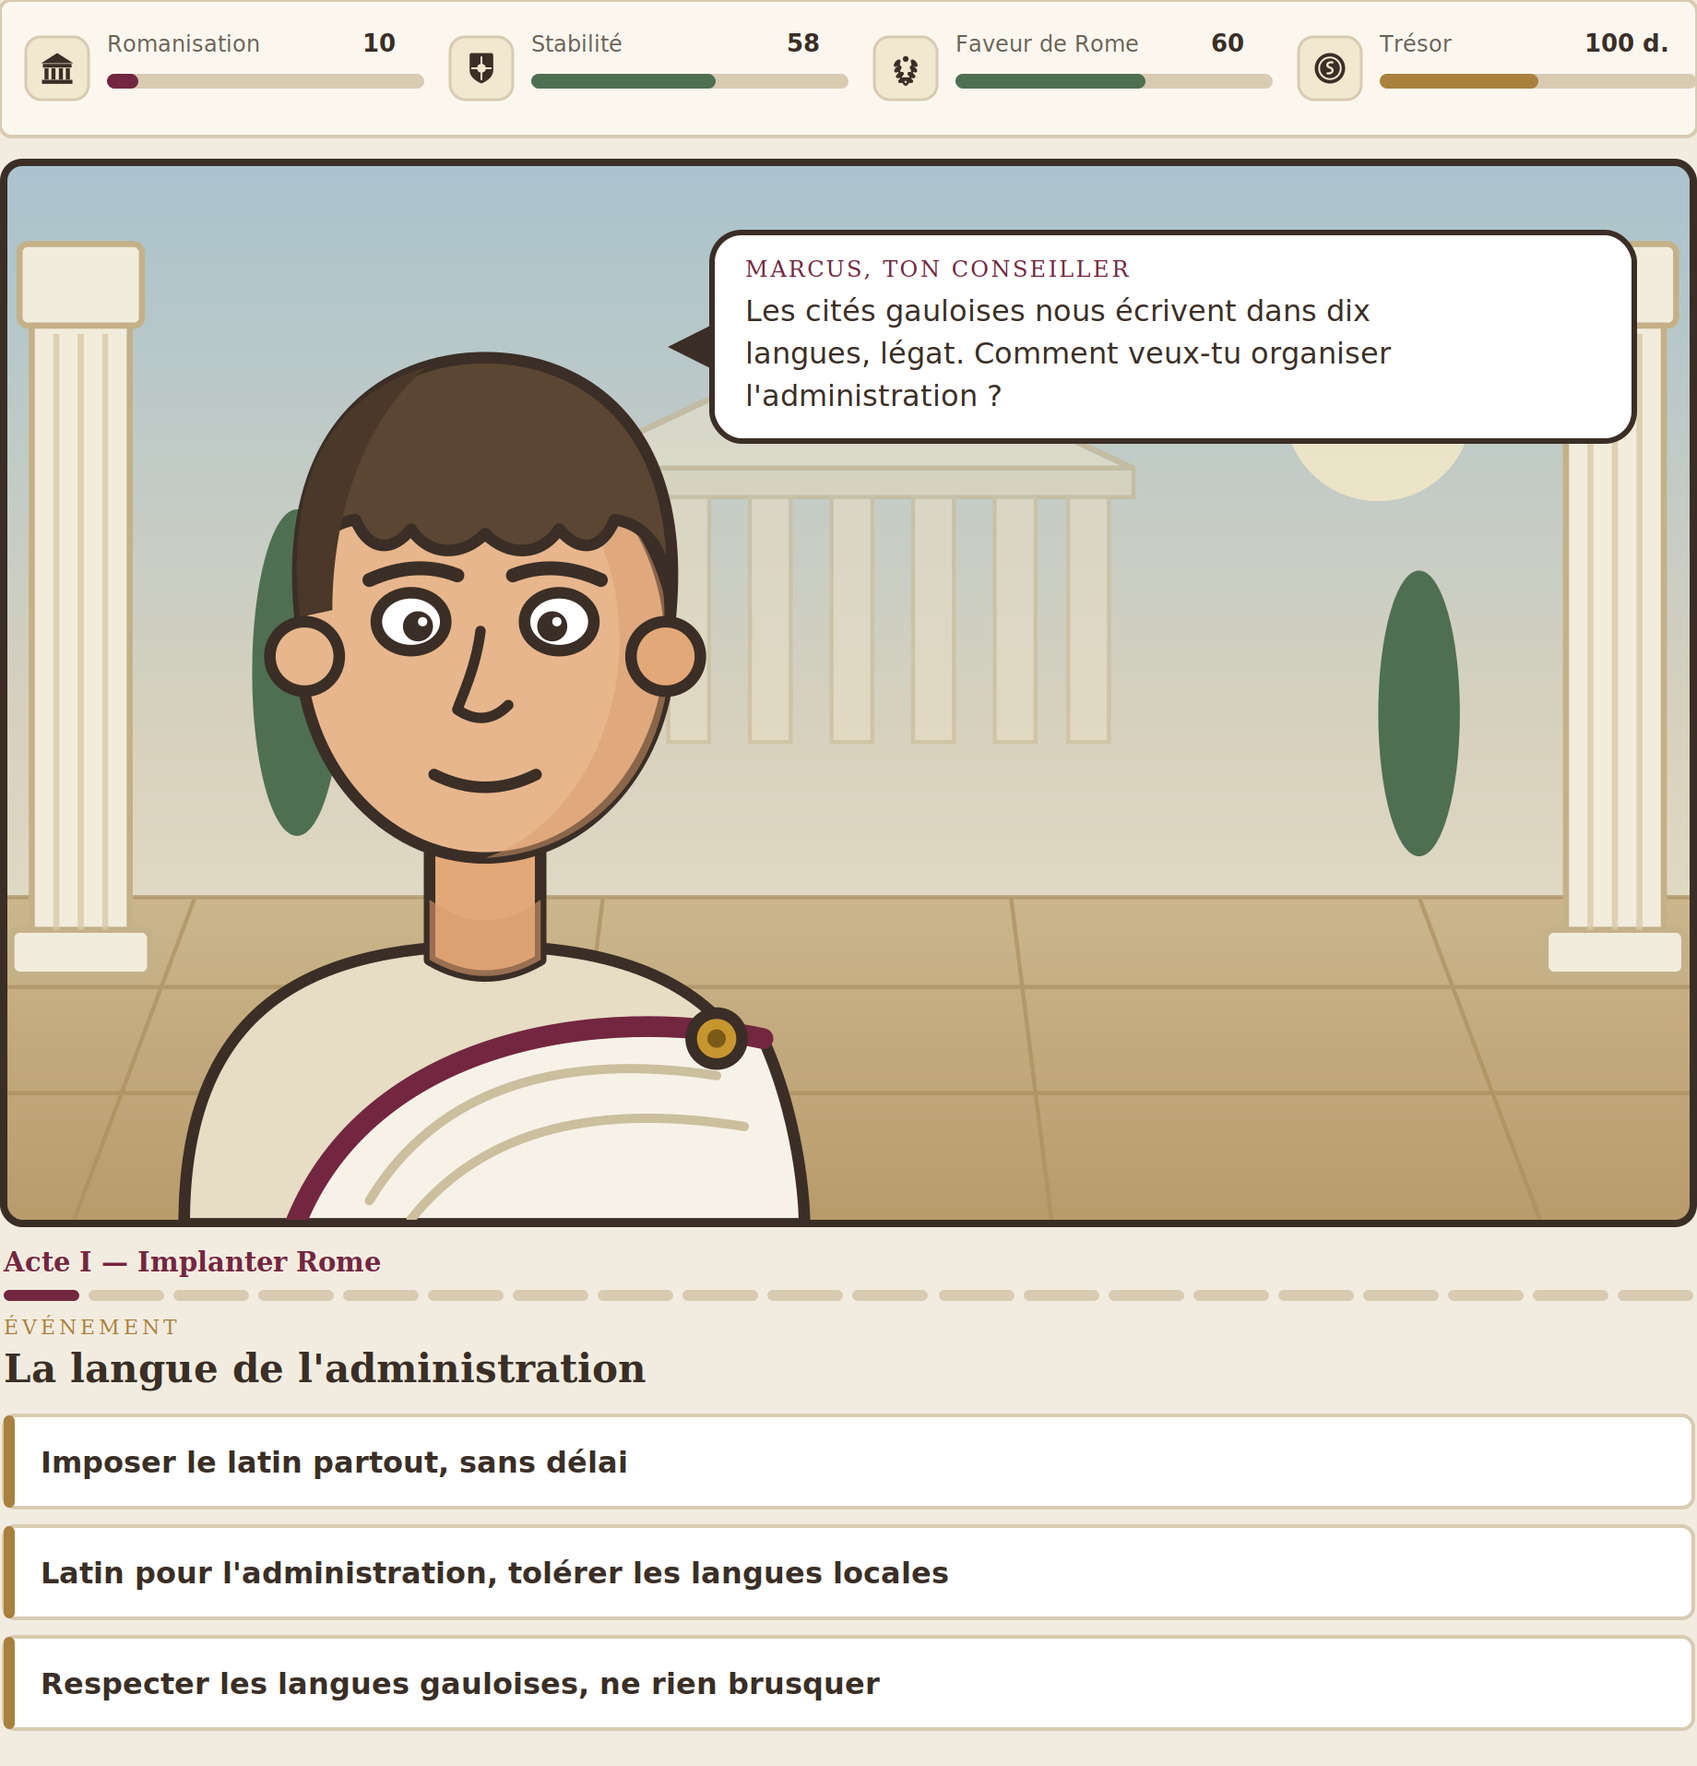
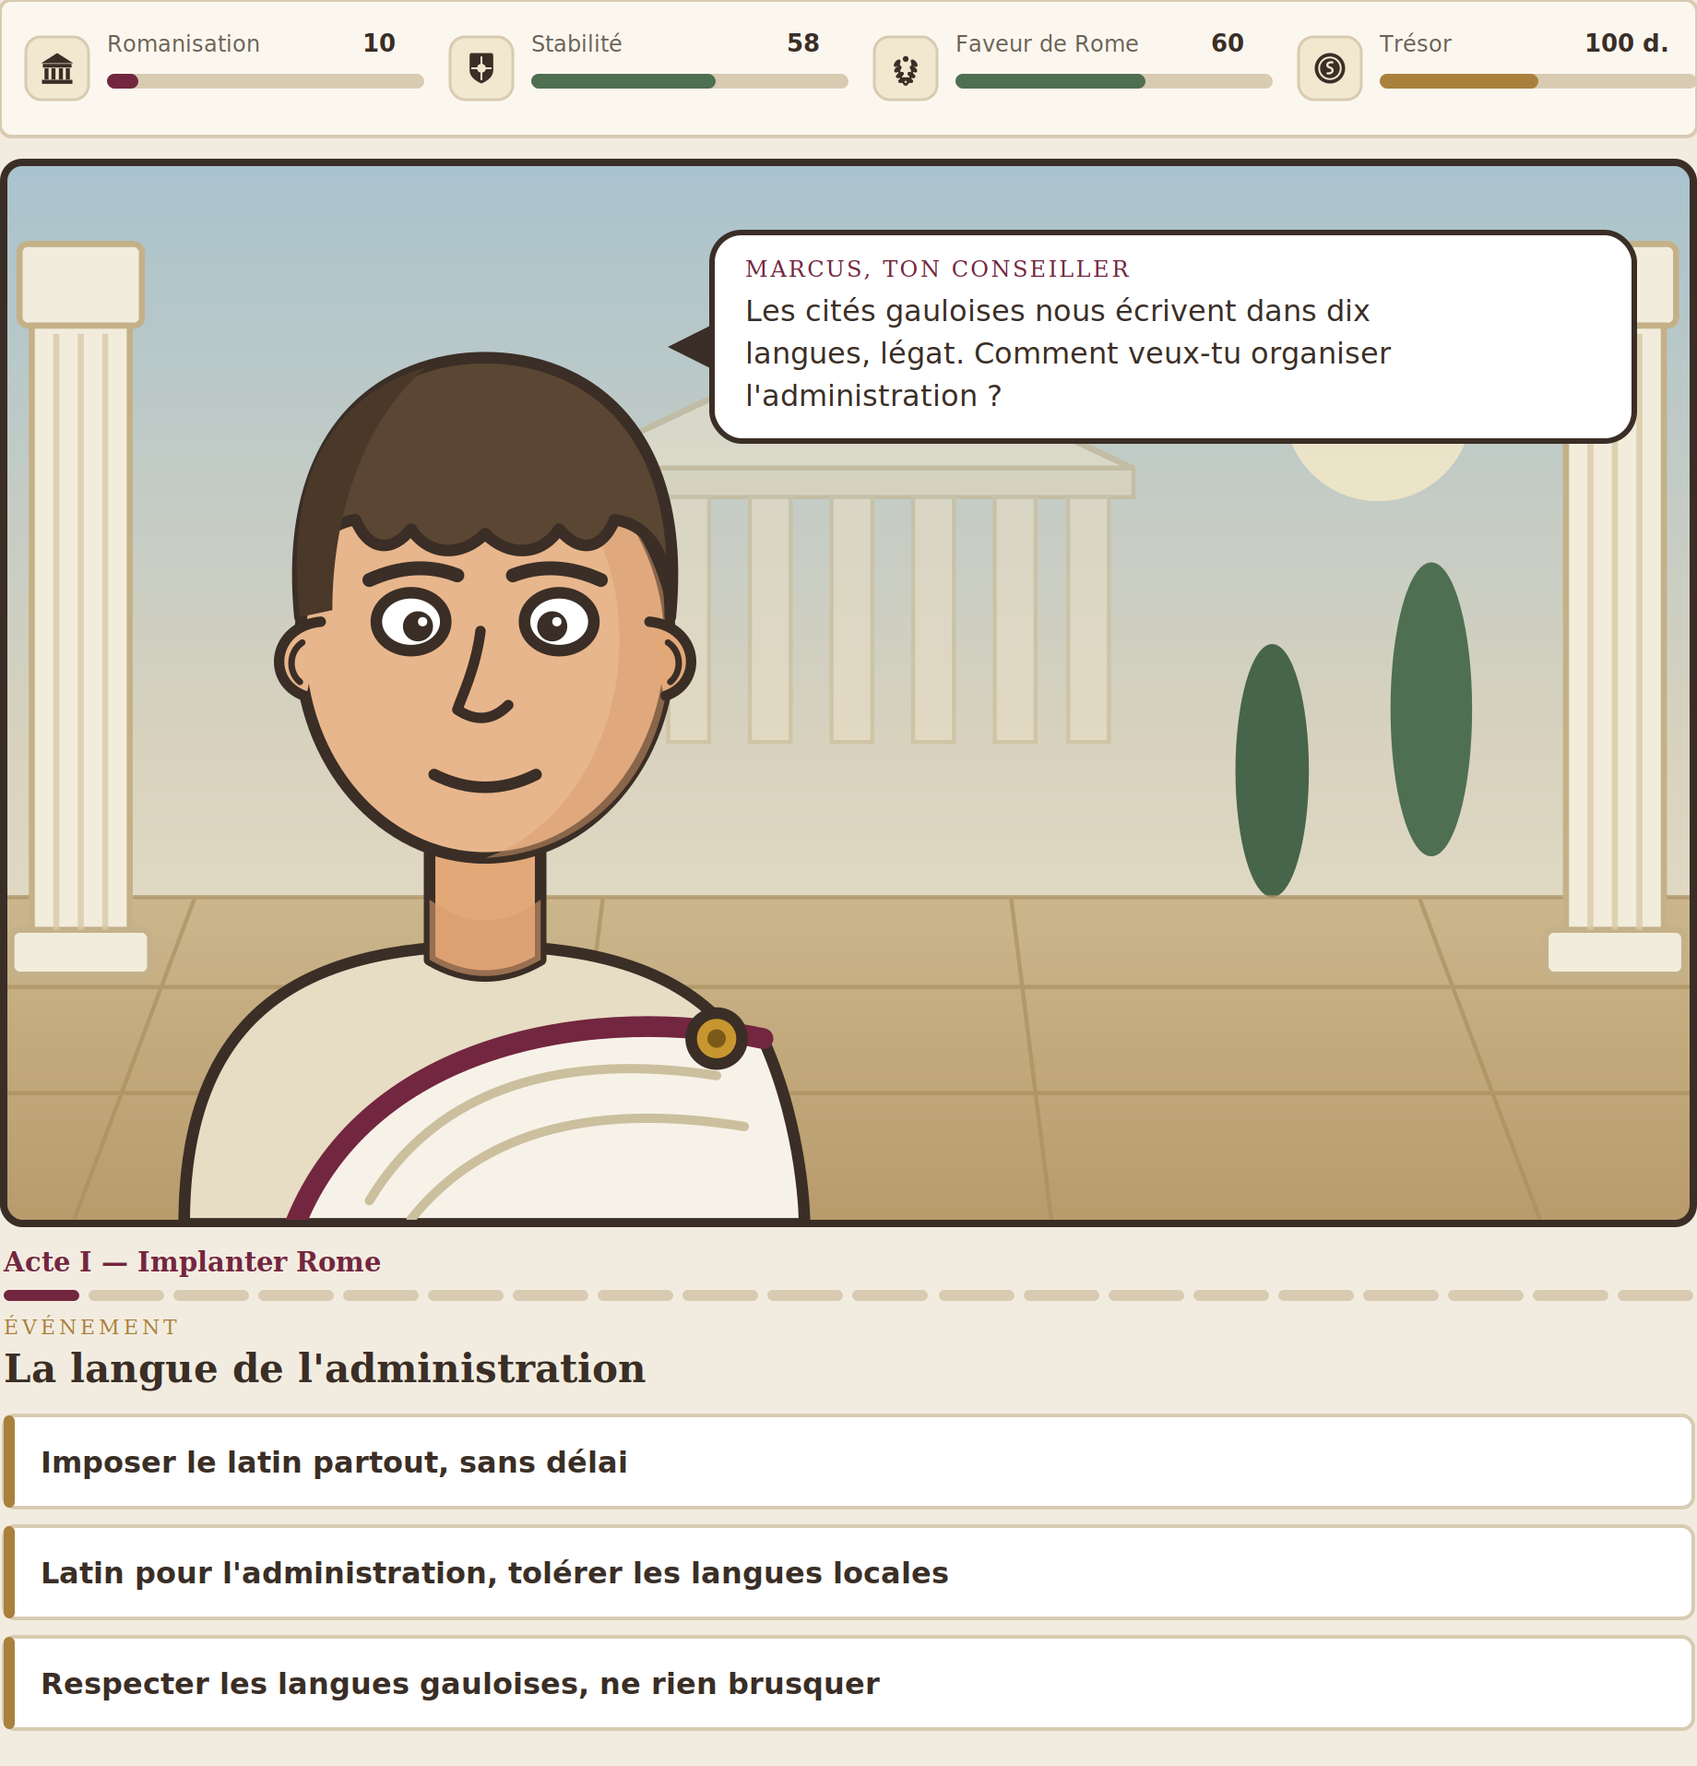
Version finale

diff --git a/assets/js/legatus.js b/assets/js/legatus.js
@@ -15,9 +15,13 @@
     piece:'<circle cx="12" cy="12" r="9" fill="#3A2E26"/><circle cx="12" cy="12" r="6.4" fill="none" stroke="#F2E7CF" stroke-width="1.1"/><path d="M13.5 8.5 C10 8 9.5 11 12 11.6 C14.5 12.2 14 15.4 10.6 15" fill="none" stroke="#F2E7CF" stroke-width="1.3" stroke-linecap="round"/>'
   };
 
-  var etat, flags, persistants, idx;
+  var etat, flags, persistants, idx, enRevolte, DIFF;
 
-  function init(){ etat=Object.assign({},G.etatInitial); flags={}; persistants=[]; idx=0; }
+  function diffDefaut(){
+    return (G.difficultes && G.difficultes[G.difficultes.defaut||"legat"]) ||
+           { nom:"Légat", seuilRevolte:30, seuilPaix:42, attenuation:0.5, bleed:2, revenuMod:1, malusActeMod:1 };
+  }
+  function init(){ etat=Object.assign({},G.etatInitial); flags={}; persistants=[]; idx=0; enRevolte=false; if(!DIFF)DIFF=diffDefaut(); }
 
   function el(s){ return document.querySelector(s); }
   function creer(t,c,h){ var n=document.createElement(t); if(c)n.className=c; if(h!=null)n.innerHTML=h; return n; }
@@ -31,6 +35,7 @@
   /* ---------- jauges ---------- */
   function rendreJauges(deltas){
     var b=el("#jauges"); b.innerHTML="";
+    if(enRevolte) b.appendChild(creer("div","revolte-banner","\u2694 Province en révolte — progrès entravés, impôts suspendus"));
     G.jauges.forEach(function(j){
       var v=etat[j.id];
       var carte=creer("div","jauge");
@@ -56,6 +61,32 @@
   function gameOver(){ if(etat.stabilite<=0)return "stabilite"; if(etat.faveur<=0)return "faveur"; return null; }
   function estPositif(d){ var s=0; Object.keys(d).forEach(function(k){ if(k!=="tresor")s+=d[k]; }); return s>=0; }
 
+  /* ---------- révolte (niveau de difficulté) ---------- */
+  // Une province en révolte freine les gains de Romanisation et de Faveur.
+  // La Stabilité reste pleinement réactive : c'est le levier pour sortir de la révolte.
+  function attenuer(eff){
+    var r=Object.assign({},eff);
+    ["romanisation","faveur"].forEach(function(k){ if(r[k]>0) r[k]=Math.round(r[k]*DIFF.attenuation); });
+    return r;
+  }
+  function scaleMalus(m){ var r={}; Object.keys(m||{}).forEach(function(k){ r[k]=Math.round(m[k]*(DIFF.malusActeMod||1)); }); return r; }
+  function ajoute(deltas,d){ Object.keys(d).forEach(function(k){ deltas[k]=(deltas[k]||0)+d[k]; }); }
+  // Met à jour l'état de révolte d'après la stabilité courante ; renvoie le message à afficher.
+  function majRevolte(deltas){
+    if(!enRevolte && etat.stabilite < DIFF.seuilRevolte){
+      enRevolte=true; ajoute(deltas, appliquer({faveur:-5}));
+      return "\u2694 Une province se soulève ! Tant qu'elle gronde, les progrès de la Romanisation et de la Faveur sont freinés et les impôts ne rentrent plus. Rétablis la stabilité (\u2265 "+DIFF.seuilPaix+") pour la pacifier.";
+    }
+    if(enRevolte && etat.stabilite >= DIFF.seuilPaix){
+      enRevolte=false; return "\u2714 La province est pacifiée : l'ordre revient et les progrès reprennent.";
+    }
+    if(enRevolte){
+      ajoute(deltas, appliquer({stabilite:-(DIFF.bleed||0)}));
+      return "\u2694 La révolte couve toujours… Rétablis l'ordre (stabilité \u2265 "+DIFF.seuilPaix+") pour y mettre fin.";
+    }
+    return "";
+  }
+
   /* ---------- scène (case BD) ---------- */
   function rendreScene(o){
     // o : {perso, expr, ambiance, nom, texte, alerte, document, html}  html = contenu sous la case
@@ -79,6 +110,30 @@
     window.scrollTo({top:0,behavior:"smooth"});
   }
 
+  /* ---------- choix de difficulté ---------- */
+  function choisirDifficulte(){
+    if(!G.difficultes){ return intro(); }
+    el("#jauges").innerHTML="";
+    var scene=el("#scene"); scene.innerHTML="";
+    var box=creer("div","difficulte");
+    box.appendChild(creer("div","diff-titre","Choisis ton niveau de difficulté"));
+    box.appendChild(creer("div","diff-intro","Plus le niveau est élevé, plus une province se soulève tôt. Une province en révolte freine la progression de la Romanisation et de la Faveur, et suspend les impôts : il faut alors rétablir l'ordre avant tout."));
+    var grille=creer("div","diff-grille");
+    var ordre=G.difficultes.ordre||["legat"];
+    ordre.forEach(function(key){
+      var dd=G.difficultes[key]; if(!dd)return;
+      var c=creer("button","diff-carte"); c.type="button";
+      c.innerHTML='<div class="diff-nom">'+esc(dd.nom)+'</div>'+
+                  '<div class="diff-sous">'+esc(dd.sous||"")+'</div>'+
+                  '<div class="diff-detail">Révolte sous '+dd.seuilRevolte+' de stabilité</div>';
+      c.addEventListener("click",function(){ DIFF=dd; intro(); });
+      grille.appendChild(c);
+    });
+    box.appendChild(grille);
+    scene.appendChild(box);
+    window.scrollTo({top:0,behavior:"smooth"});
+  }
+
   /* ---------- intro ---------- */
   function intro(){
     init(); rendreJauges();
@@ -96,7 +151,7 @@
   /* ---------- intermède d'acte (saut de temps) ---------- */
   function interlude(i){
     var e=G.etapes[i];
-    var deltas = e.acteMalus ? appliquer(e.acteMalus) : null;
+    var deltas = e.acteMalus ? appliquer(scaleMalus(e.acteMalus)) : null;
     rendreJauges(deltas);
     var scene=el("#scene"); scene.innerHTML="";
     var box=creer("div","interlude "+(e.ambiance||"jour"));
@@ -146,6 +201,7 @@
   function choisir(e,opt){
     var eff=Object.assign({},opt.effets||{}); var note="";
     if(opt.effetsSi && flags[opt.effetsSi.flag]){ eff=Object.assign({},opt.effetsSi.effets); note=opt.effetsSi.note||""; }
+    if(enRevolte) eff=attenuer(eff);            // province en révolte : progrès freinés
     var deltas={};
     if(opt.cout) deltas=fusion(deltas,appliquer({tresor:-opt.cout}));
     deltas=fusion(deltas,appliquer(eff));
@@ -153,11 +209,14 @@
     if(opt.persistant) persistants.push(opt.persistant);
     var revenuTxt="";
     if(e.revenuApres){
-      var r=(etat.stabilite>=G.revenu.seuil)?G.revenu.haut:G.revenu.bas;
-      deltas=fusion(deltas,appliquer({tresor:r}));
-      revenuTxt=G.revenu.texte+" : +"+r+" d."+(etat.stabilite<G.revenu.seuil?" (réduits — province instable)":"")+".";
-      persistants.forEach(function(p){ deltas=fusion(deltas,appliquer(p)); });
+      var r = enRevolte ? 0 : Math.round(((etat.stabilite>=G.revenu.seuil)?G.revenu.haut:G.revenu.bas)*(DIFF.revenuMod||1));
+      if(r) deltas=fusion(deltas,appliquer({tresor:r}));
+      revenuTxt = enRevolte
+        ? (G.revenu.texte+" : 0 d. (province en révolte — les impôts ne rentrent plus).")
+        : (G.revenu.texte+" : +"+r+" d."+(etat.stabilite<G.revenu.seuil?" (réduits — province instable)":"")+".");
+      if(!enRevolte) persistants.forEach(function(p){ deltas=fusion(deltas,appliquer(p)); });
     }
+    var revolteTxt = majRevolte(deltas);
     var positif=estPositif(deltas);
     var expr=positif?"content":"inquiet";
 
@@ -167,6 +226,7 @@
     var d=creer("div","deltas "+(positif?"juste":"faux"));
     d.innerHTML=listeDeltas(deltas)+(revenuTxt?'<div class="corr">'+esc(revenuTxt)+'</div>':"");
     bas.appendChild(d);
+    if(revolteTxt) bas.appendChild(creer("div","note-revolte",esc(revolteTxt)));
     var pq=creer("div","pourquoi");
     pq.innerHTML='<span class="pq-tete">Pourquoi&nbsp;?</span> '+esc(opt.pourquoi);
     bas.appendChild(pq);
@@ -239,6 +299,10 @@
     return box;
   }
 
-  document.addEventListener("DOMContentLoaded",intro);
-  window.__LEGATUS_TEST={ get etat(){return etat;}, get flags(){return flags;}, get idx(){return idx;}, intro:intro, _set:function(o){Object.assign(etat,o);} };
+  document.addEventListener("DOMContentLoaded",choisirDifficulte);
+  window.__LEGATUS_TEST={ get etat(){return etat;}, get flags(){return flags;}, get idx(){return idx;},
+    get enRevolte(){return enRevolte;}, get diff(){return DIFF;},
+    intro:intro, choisirDifficulte:choisirDifficulte,
+    setDiff:function(k){ DIFF=(G.difficultes&&G.difficultes[k])||DIFF; },
+    _set:function(o){Object.assign(etat,o);} };
 })();

diff --git a/assets/css/legatus.css b/assets/css/legatus.css
@@ -135,3 +135,25 @@ header.tete .sous{font-family:var(--display);letter-spacing:.28em;text-transform
   .doc-vignette{display:none}
 }
 @media (prefers-reduced-motion:reduce){*{transition:none!important;animation:none!important}}
+
+/* ===== choix de difficulté ===== */
+.difficulte{border:4px solid var(--encre);border-radius:12px;background:#F2E7CF;padding:34px 24px;text-align:center}
+.diff-titre{font-family:var(--display);font-weight:700;font-size:clamp(20px,3vw,28px);color:var(--pourpre)}
+.diff-intro{max-width:580px;margin:10px auto 24px;color:#6B5A48;line-height:1.55}
+.diff-grille{display:grid;grid-template-columns:repeat(3,1fr);gap:14px;max-width:720px;margin:0 auto}
+.diff-carte{cursor:pointer;text-align:left;border:3px solid var(--encre);border-radius:10px;background:#fff;padding:16px 16px 18px;transition:transform .12s ease,box-shadow .12s ease}
+.diff-carte:hover{transform:translateY(-3px);box-shadow:0 7px 18px rgba(58,46,38,.20)}
+.diff-nom{font-family:var(--display);font-weight:700;font-size:20px;color:var(--encre)}
+.diff-sous{color:#6B5A48;font-size:13.5px;margin:3px 0 12px;line-height:1.4}
+.diff-detail{font-size:13px;color:var(--pourpre);font-weight:700}
+@media(max-width:640px){ .diff-grille{grid-template-columns:1fr} }
+
+/* ===== révolte (niveau de difficulté) ===== */
+.revolte-banner{grid-column:1/-1;background:linear-gradient(90deg,#8a2417,#b23a26);color:#fff;
+  font-family:var(--display);font-weight:700;letter-spacing:.02em;text-align:center;
+  padding:9px 12px;border-radius:8px;border:2px solid #5e1810;font-size:14px;
+  animation:pulseRev 1.9s ease-in-out infinite}
+@keyframes pulseRev{0%,100%{box-shadow:0 0 0 0 rgba(178,58,38,.55)}50%{box-shadow:0 0 0 6px rgba(178,58,38,0)}}
+.note-revolte{margin:12px 0 2px;padding:11px 14px;border-radius:8px;border:2px solid #b23a26;
+  background:#fbeae6;color:#7a2117;font-weight:600;line-height:1.5}
+@media(prefers-reduced-motion:reduce){ .revolte-banner{animation:none} }

diff --git a/assets/js/legatus-data.js b/assets/js/legatus-data.js
@@ -401,6 +401,21 @@ window.LEGATUS = {
 
   revenu:{ haut:18, bas:9, seuil:45, texte:"Récolte des impôts" },
 
+  /* Niveaux de difficulté. seuilRevolte = stabilité sous laquelle une province se
+     soulève ; seuilPaix = stabilité à retrouver pour la pacifier (bande d'hystérésis).
+     attenuation = facteur appliqué aux gains de Romanisation/Faveur pendant la révolte ;
+     bleed = stabilité perdue par tour tant que la révolte dure ; revenuMod = facteur sur
+     les impôts ; malusActeMod = facteur sur la pression des actes IV-V. À AJUSTER. */
+  difficultes:{
+    defaut:"legat", ordre:["apprenti","legat","imperator"],
+    apprenti:{ nom:"Apprenti", sous:"Pour découvrir, marge d'erreur large",
+      seuilRevolte:20, seuilPaix:30, attenuation:0.7, bleed:1, revenuMod:1.2, malusActeMod:0.5 },
+    legat:{ nom:"Légat", sous:"L'expérience équilibrée",
+      seuilRevolte:30, seuilPaix:42, attenuation:0.5, bleed:2, revenuMod:1, malusActeMod:1 },
+    imperator:{ nom:"Imperator", sous:"Pour les stratèges aguerris",
+      seuilRevolte:40, seuilPaix:50, attenuation:0.35, bleed:3, revenuMod:0.85, malusActeMod:1.4 }
+  },
+
   echecs:{
     stabilite:{ perso:"gaulois", expr:"severe", ambiance:"danger", titre:"L'Empire s'embrase",
       texte:"La stabilité s'est effondrée : révoltes et invasions emportent la province. Rome te rappelle en disgrâce. Tenir un empire, c'est d'abord ne pas le laisser se déchirer." },

diff --git a/outils/gen.py b/outils/gen.py
@@ -100,11 +100,11 @@ def coiffe(role):
                 f'<rect x="194" y="60" width="12" height="78" fill="{CRISTA}"/>'
                 f'<path d="M134 126 C134 110 150 100 200 100 C250 100 266 110 266 126" fill="none" stroke="{METAL_O}" stroke-width="3"/>')
     if role=="gaulois":
-        # cheveux mi-longs roux
-        return (f'<path d="M112 200 C100 100 158 60 200 60 C242 60 300 100 288 200 C292 150 280 130 270 128 '
-                f'L268 175 C268 150 264 138 256 136 C250 150 130 150 144 136 C136 138 132 150 132 175 L130 128 '
-                f'C120 130 108 150 112 200 Z" fill="{CHEV_GAUL}"/>'
-                f'<path d="M112 200 C104 130 130 90 170 66 C150 90 130 140 130 195 Z" fill="{CHEV_GAUL_O}" stroke="none"/>')
+        # cheveux roux nets (silhouette propre, frange ondulée, sans pic)
+        return (f'<path d="M120 178 C112 95 158 58 200 58 C242 58 288 95 280 178 '
+                f'C280 150 270 138 256 136 C250 150 240 150 232 140 C224 152 210 152 200 142 '
+                f'C190 152 176 152 168 140 C160 150 150 150 144 136 C130 138 120 150 120 178 Z" fill="{CHEV_GAUL}"/>'
+                f'<path d="M120 178 C112 108 140 78 176 62 C150 86 134 130 134 176 Z" fill="{CHEV_GAUL_O}" stroke="none"/>')
     # cheveux romains courts (conseiller / empereur)
     base=(f'<path d="M120 178 C112 95 158 66 200 66 C242 66 288 95 280 178 '
           f'C280 150 270 138 256 136 C250 150 240 150 232 140 C224 152 210 152 200 142 '
@@ -147,7 +147,14 @@ def perso(role="conseiller", expr="neutre", bg=None):
     # tête
     parts.append(f'<ellipse cx="200" cy="190" rx="80" ry="92" fill="{skin_l}"/>')
     parts.append(f'<path d="M200 100 C250 104 280 150 280 190 C280 245 245 280 200 282 C235 270 258 230 258 188 C258 145 235 108 200 100 Z" fill="{PEAU_OMBRE}" stroke="none" opacity="0.5"/>')
-    parts.append(f'<circle cx="122" cy="195" r="15" fill="{PEAU}"/><circle cx="278" cy="195" r="15" fill="{PEAU2}"/>')
+    # oreilles : forme d'oreille attachée à la tête (pas de trait côté visage)
+    parts.append(
+        f'<path d="M129 179 C107 180 103 207 122 213 C125 208 124 196 127 188 C127 184 128 181 129 179 Z" fill="{PEAU}" stroke="none"/>'
+        f'<path d="M271 179 C293 180 297 207 278 213 C275 208 276 196 273 188 C273 184 272 181 271 179 Z" fill="{PEAU2}" stroke="none"/>'
+        f'<path d="M129 180 C108 182 105 206 122 212" fill="none" stroke="{CERNE}" stroke-width="4.5"/>'
+        f'<path d="M271 180 C292 182 295 206 278 212" fill="none" stroke="{CERNE}" stroke-width="4.5"/>'
+        f'<path d="M121 189 C115 193 115 202 120 206" fill="none" stroke="{CERNE}" stroke-width="2.8"/>'
+        f'<path d="M279 189 C285 193 285 202 280 206" fill="none" stroke="{CERNE}" stroke-width="2.8"/>')
     parts.append(coiffe(role))
     parts.append(visage(expr))
     parts.append(moustache(role))

diff --git a/LECTURE-MOI.md b/LECTURE-MOI.md
@@ -39,11 +39,30 @@ faire vivre l'arc complet de l'Empire. À adapter selon ton intention pédagogiq
 ## Les quatre jauges
 
 - **Romanisation** — l'enracinement de la culture, du droit et des villes de Rome.
-- **Stabilité** — la paix sociale ; à 0, c'est la révolte et le rappel en disgrâce.
+- **Stabilité** — la paix sociale ; à 0, c'est la révolte totale et le rappel en disgrâce.
 - **Faveur de Rome** — la confiance de l'empereur ; à 0, c'est la destitution.
   Attention : ses exigences *changent* avec le temps (après l'Édit de Milan,
   soutenir les chrétiens rapporte de la faveur — l'inverse d'avant).
 - **Trésor** — finance les chantiers (actes I-II) puis les armées (acte IV).
+
+## Niveaux de difficulté et révolte des provinces
+
+Au lancement, on choisit un niveau : **Apprenti**, **Légat** ou **Imperator**. Le
+niveau fixe le **seuil de révolte** : si la Stabilité descend sous ce seuil
+(20 / 30 / 40), une province se soulève.
+
+Tant qu'une province est en révolte :
+- les gains de **Romanisation** et de **Faveur** sont **freinés** (on ne romanise
+  pas une province en feu) ;
+- les **impôts ne rentrent plus** (aucun revenu) ;
+- la Stabilité **s'érode** un peu chaque tour.
+
+Pour en sortir, il faut **rétablir l'ordre** : remonter la Stabilité au-dessus du
+seuil de pacification (la Stabilité, elle, n'est pas freinée — c'est ton levier pour
+t'en sortir, afin d'éviter une situation sans issue). Le niveau ajuste aussi la
+sévérité du freinage, les impôts et la pression des actes IV-V. Tous ces réglages
+vivent dans `difficultes` (dans `legatus-data.js`) et sont **à ajuster** selon tes
+classes.
 
 ## Peut-on atteindre 100 % ?
 
